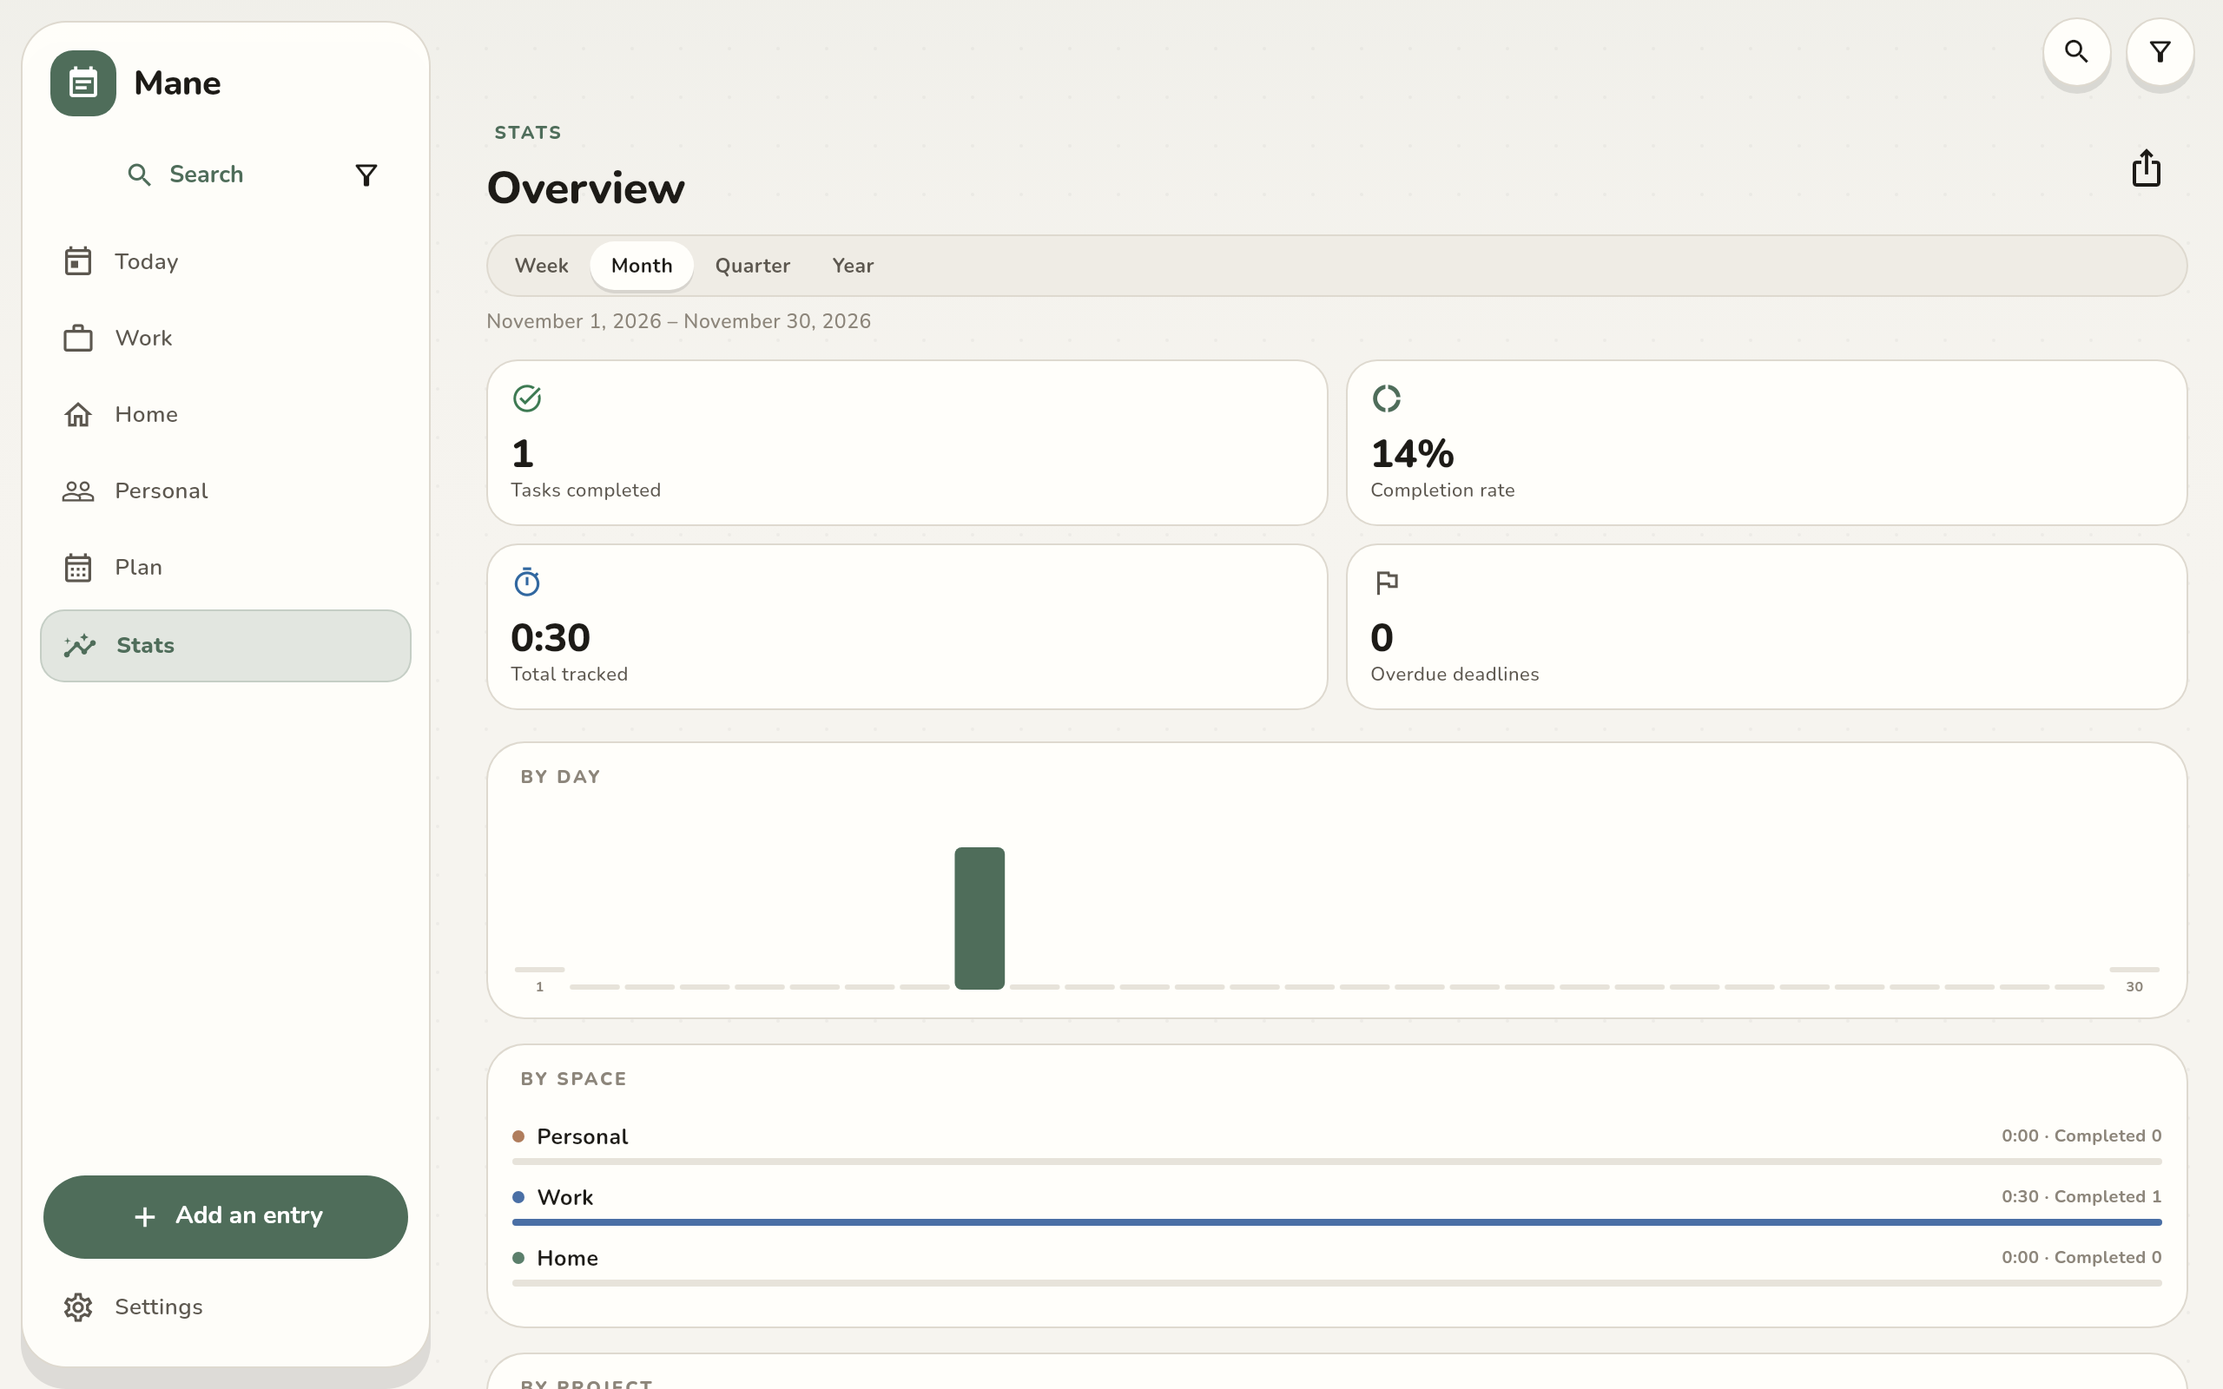
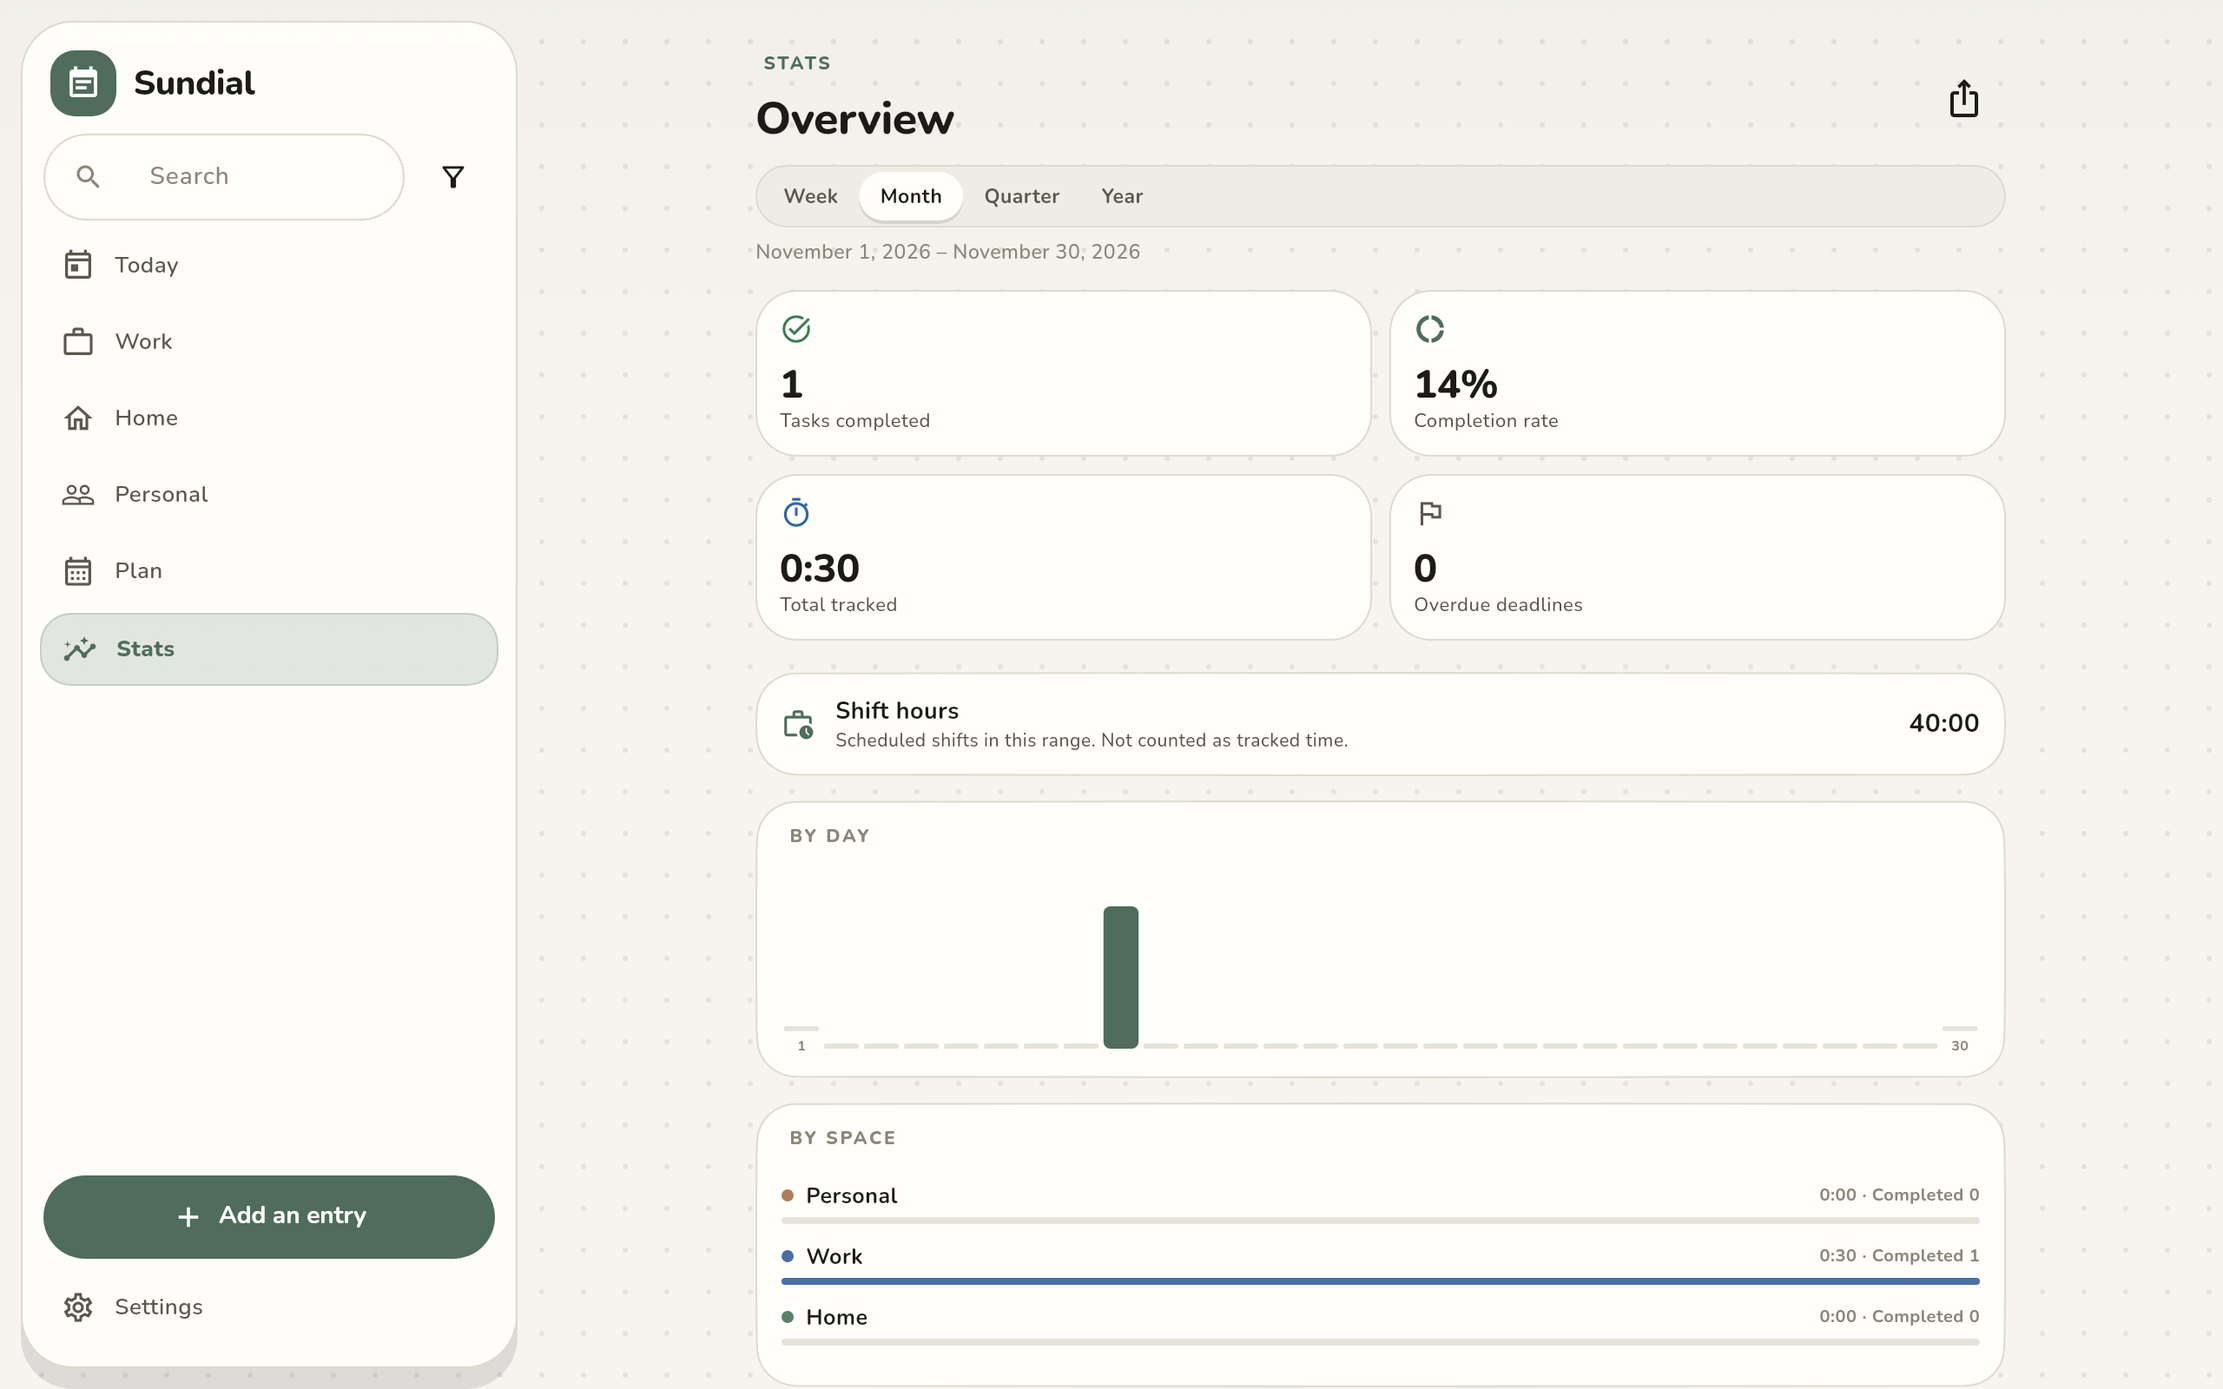
feat: centre page bodies in a reading column
Wide windows stretched cards and forms to the edge while Settings
already kept a 760 px column. The shared pane applies that measure to
the shell tabs and pushed pages; Plan opts out because its grids are
canvases.

diff --git a/lib/app/app_shell.dart b/lib/app/app_shell.dart
@@ -7,6 +7,7 @@ import 'package:flutter_timezone/flutter_timezone.dart';
 import 'package:sundial_core/sundial_core.dart';
 
 import '../core/i18n/l10n.dart';
+import '../core/layout/sundial_layout.dart';
 import '../core/sound/sound_service.dart';
 import '../core/widgets/ui_kit.dart';
 import '../features/home_widget/home_widget_service.dart';
@@ -24,6 +25,7 @@ import '../services/reminder_planner.dart';
 import '../state/providers.dart';
 import '../state/settings_controller.dart';
 import '../theme/app_colors.dart';
+import '../theme/app_radii.dart';
 import '../theme/app_typography.dart';
 
 class AppShell extends ConsumerStatefulWidget {
@@ -277,7 +279,10 @@ class _AppShellState extends ConsumerState<AppShell>
                 Container(
                   width: 38,
                   height: 38,
-                  decoration: BoxDecoration(color: c.accent, borderRadius: BorderRadius.circular(13)),
+                  decoration: BoxDecoration(
+                    color: c.accent,
+                    borderRadius: BorderRadius.circular(SundialRadii.sm),
+                  ),
                   child: Icon(Icons.event_note, size: 21, color: c.onAccent),
                 ),
                 const SizedBox(width: 10),
@@ -295,7 +300,10 @@ class _AppShellState extends ConsumerState<AppShell>
                       ? null
                       : Container(
                           padding: const EdgeInsets.symmetric(horizontal: 5, vertical: 1),
-                          decoration: BoxDecoration(color: c.accent, borderRadius: BorderRadius.circular(8)),
+                          decoration: BoxDecoration(
+                            color: c.accent,
+                            borderRadius: BorderRadius.circular(SundialRadii.xs),
+                          ),
                           child: Text('$filterCount', style: SundialType.label(9, color: c.onAccent)),
                         ),
                 ),
@@ -311,12 +319,13 @@ class _AppShellState extends ConsumerState<AppShell>
             child: IndexedStack(
               index: _index,
               children: const [
-                TodayScreen(),
-                SpaceOverviewPage(spaceId: 'work'),
-                SpaceOverviewPage(spaceId: 'home'),
-                SpaceOverviewPage(spaceId: 'personal'),
+                SundialContentPane(child: TodayScreen()),
+                SundialContentPane(child: SpaceOverviewPage(spaceId: 'work')),
+                SundialContentPane(child: SpaceOverviewPage(spaceId: 'home')),
+                SundialContentPane(child: SpaceOverviewPage(spaceId: 'personal')),
+                // Plan is a canvas: the month and week grids use the full width.
                 PlanPage(),
-                StatsPage(),
+                SundialContentPane(child: StatsPage()),
               ],
             ),
           ),
@@ -423,11 +432,11 @@ class _SideRail extends StatelessWidget {
     final c = context.mc;
     final l10n = context.l10n;
     return Container(
-      width: 236,
+      width: kSidebarWidth,
       margin: const EdgeInsets.fromLTRB(12, 12, 12, 12),
       decoration: BoxDecoration(
         color: c.navBg,
-        borderRadius: BorderRadius.circular(26),
+        borderRadius: BorderRadius.circular(SundialRadii.xl),
         border: Border.all(color: c.border),
         boxShadow: [BoxShadow(color: c.shadow, blurRadius: 26, offset: const Offset(0, 12))],
       ),
@@ -440,7 +449,10 @@ class _SideRail extends StatelessWidget {
                 Container(
                   width: 38,
                   height: 38,
-                  decoration: BoxDecoration(color: c.accent, borderRadius: BorderRadius.circular(13)),
+                  decoration: BoxDecoration(
+                    color: c.accent,
+                    borderRadius: BorderRadius.circular(SundialRadii.sm),
+                  ),
                   child: Icon(Icons.event_note, size: 21, color: c.onAccent),
                 ),
                 const SizedBox(width: 10),
@@ -540,7 +552,7 @@ class _RailItem extends StatelessWidget {
           padding: const EdgeInsets.symmetric(horizontal: 12, vertical: 10),
           decoration: BoxDecoration(
             color: selected ? c.accentSoft : Colors.transparent,
-            borderRadius: BorderRadius.circular(14),
+            borderRadius: BorderRadius.circular(SundialRadii.md),
             border: selected ? Border.all(color: c.accent.withValues(alpha: 0.2)) : null,
           ),
           child: Row(

diff --git a/lib/features/settings/pages/settings_page.dart b/lib/features/settings/pages/settings_page.dart
@@ -2,11 +2,13 @@ import 'package:flutter/material.dart';
 import 'package:flutter_riverpod/flutter_riverpod.dart';
 
 import '../../../core/i18n/l10n.dart';
+import '../../../core/layout/sundial_layout.dart';
 import '../../../core/widgets/ui_kit.dart';
 import '../../../models/app_settings.dart';
 import '../../../state/providers.dart';
 import '../../../state/settings_controller.dart';
 import '../../../theme/app_colors.dart';
+import '../../../theme/app_radii.dart';
 import '../../../theme/app_typography.dart';
 import '../../mcp/pages/mcp_page.dart';
 import '../../sync/pages/devices_page.dart';
@@ -16,8 +18,6 @@ import 'settings_detail_page.dart';
 
 /// Mirrors the shell breakpoint in `lib/app/app_shell.dart`.
 const _desktopBreakpoint = 900.0;
-const _sidebarWidth = 286.0;
-const _paneMaxWidth = 760.0;
 
 class SettingsPage extends ConsumerStatefulWidget {
   const SettingsPage({super.key});
@@ -164,20 +164,13 @@ class _SettingsPageState extends ConsumerState<SettingsPage> {
                 ),
                 const SizedBox(width: 22),
                 Expanded(
-                  child: Align(
-                    alignment: Alignment.topCenter,
-                    child: ConstrainedBox(
-                      constraints: const BoxConstraints(maxWidth: _paneMaxWidth),
-                      child: SizedBox(
-                        width: double.infinity,
-                        child: Column(
-                          crossAxisAlignment: CrossAxisAlignment.stretch,
-                          children: [
-                            _paneHeader(context, l10n),
-                            Expanded(child: _paneBody(context, l10n, settings, pairedCount)),
-                          ],
-                        ),
-                      ),
+                  child: SundialContentPane(
+                    child: Column(
+                      crossAxisAlignment: CrossAxisAlignment.stretch,
+                      children: [
+                        _paneHeader(context, l10n),
+                        Expanded(child: _paneBody(context, l10n, settings, pairedCount)),
+                      ],
                     ),
                   ),
                 ),
@@ -557,11 +550,11 @@ class _SettingsSidebar extends StatelessWidget {
     final l10n = context.l10n;
     final c = context.mc;
     return Container(
-      width: _sidebarWidth,
+      width: kSidebarWidth,
       padding: const EdgeInsets.fromLTRB(12, 12, 12, 10),
       decoration: BoxDecoration(
         color: c.navBg,
-        borderRadius: BorderRadius.circular(24),
+        borderRadius: BorderRadius.circular(SundialRadii.lg),
         border: Border.all(color: c.border),
       ),
       child: Column(
@@ -721,7 +714,7 @@ class _SidebarRow extends StatelessWidget {
           padding: EdgeInsets.symmetric(horizontal: 10, vertical: twoLines ? 8 : 10),
           decoration: BoxDecoration(
             color: selected ? c.accentSoft : Colors.transparent,
-            borderRadius: BorderRadius.circular(12),
+            borderRadius: BorderRadius.circular(SundialRadii.sm),
             border: Border.all(color: selected ? c.accent.withValues(alpha: 0.30) : Colors.transparent),
           ),
           child: Row(

diff --git a/lib/core/widgets/sundial_page.dart b/lib/core/widgets/sundial_page.dart
@@ -4,6 +4,7 @@ import '../../theme/app_colors.dart';
 import '../../theme/app_typography.dart';
 import 'app_background.dart';
 import 'pressable.dart';
+import 'sundial_content_pane.dart';
 
 /// A pushed page with the reference header: round back button, strong title,
 /// optional subtitle and glass actions. It replaces stock AppBar scaffolds.
@@ -40,37 +41,39 @@ class SundialPage extends StatelessWidget {
       body: AppBackground(
         child: SafeArea(
           bottom: bottomBar == null,
-          child: Column(
-            children: [
-              Padding(
-                padding: const EdgeInsets.fromLTRB(16, 10, 16, 8),
-                child: SundialPageHeader(
-                  title: title,
-                  subtitle: subtitle,
-                  actions: actions,
-                  onBack: onBack ?? () => Navigator.of(context).maybePop(),
-                ),
-              ),
-              Expanded(
-                child: Stack(
-                  children: [
-                    Positioned.fill(
-                      child: Padding(padding: padding, child: child),
-                    ),
-                    if (floatingAction != null) Positioned(right: 20, bottom: 20, child: floatingAction!),
-                  ],
-                ),
-              ),
-              if (bottomBar != null)
-                Container(
-                  padding: EdgeInsets.fromLTRB(20, 10, 20, 12 + MediaQuery.paddingOf(context).bottom),
-                  decoration: BoxDecoration(
-                    color: c.surface,
-                    border: Border(top: BorderSide(color: c.border)),
+          child: SundialContentPane(
+            child: Column(
+              children: [
+                Padding(
+                  padding: const EdgeInsets.fromLTRB(16, 10, 16, 8),
+                  child: SundialPageHeader(
+                    title: title,
+                    subtitle: subtitle,
+                    actions: actions,
+                    onBack: onBack ?? () => Navigator.of(context).maybePop(),
                   ),
-                  child: bottomBar,
                 ),
-            ],
+                Expanded(
+                  child: Stack(
+                    children: [
+                      Positioned.fill(
+                        child: Padding(padding: padding, child: child),
+                      ),
+                      if (floatingAction != null) Positioned(right: 20, bottom: 20, child: floatingAction!),
+                    ],
+                  ),
+                ),
+                if (bottomBar != null)
+                  Container(
+                    padding: EdgeInsets.fromLTRB(20, 10, 20, 12 + MediaQuery.paddingOf(context).bottom),
+                    decoration: BoxDecoration(
+                      color: c.surface,
+                      border: Border(top: BorderSide(color: c.border)),
+                    ),
+                    child: bottomBar,
+                  ),
+              ],
+            ),
           ),
         ),
       ),

diff --git a/test/visual_kit_test.dart b/test/visual_kit_test.dart
@@ -1,7 +1,9 @@
 import 'package:flutter/material.dart';
 import 'package:flutter_test/flutter_test.dart';
+import 'package:sundial/core/layout/sundial_layout.dart';
 import 'package:sundial/core/widgets/ui_kit.dart';
 import 'package:sundial/theme/app_colors.dart';
+import 'package:sundial/theme/app_radii.dart';
 import 'package:sundial/theme/app_theme.dart';
 
 void main() {
@@ -16,7 +18,14 @@ void main() {
     expect(theme.appBarTheme.backgroundColor, Colors.transparent);
     expect(theme.snackBarTheme.behavior, SnackBarBehavior.floating);
     expect(theme.filledButtonTheme.style?.shape?.resolve({}), isA<StadiumBorder>());
-    expect(theme.bottomSheetTheme.shape, isA<RoundedRectangleBorder>());
+    // Sheets and cards follow the icon's continuous-corner silhouette.
+    expect(theme.bottomSheetTheme.shape, isA<RoundedSuperellipseBorder>());
+    expect(theme.cardTheme.shape, isA<RoundedSuperellipseBorder>());
+    expect(theme.dialogTheme.shape, isA<RoundedSuperellipseBorder>());
+    expect(
+      (theme.cardTheme.shape! as RoundedSuperellipseBorder).borderRadius,
+      BorderRadius.circular(SundialRadii.lg),
+    );
     expect(theme.cardTheme.color, SundialColors.light.surface);
   });
 
@@ -59,6 +68,38 @@ void main() {
     await tester.tap(find.bySemanticsLabel('Quiet hours'));
     await tester.pumpAndSettle();
     expect(toggled, isTrue);
+  });
+
+  testWidgets('page bodies centre in the reading column on wide windows', (tester) async {
+    tester.view.physicalSize = const Size(1600, 900);
+    tester.view.devicePixelRatio = 1;
+    addTearDown(tester.view.reset);
+
+    await tester.pumpWidget(
+      MaterialApp(
+        theme: SundialTheme.light,
+        home: const Scaffold(
+          body: SundialContentPane(child: SizedBox.expand(key: Key('pane-body'))),
+        ),
+      ),
+    );
+
+    final box = tester.getRect(find.byKey(const Key('pane-body')));
+    expect(box.width, kContentMaxWidth);
+    expect(box.center.dx, 800);
+    expect(box.height, 900);
+
+    tester.view.physicalSize = const Size(500, 800);
+    await tester.pumpWidget(
+      MaterialApp(
+        theme: SundialTheme.light,
+        home: const Scaffold(
+          body: SundialContentPane(child: SizedBox.expand(key: Key('pane-body'))),
+        ),
+      ),
+    );
+
+    expect(tester.getSize(find.byKey(const Key('pane-body'))).width, 500);
   });
 
   testWidgets('the floating nav reports the selected destination', (tester) async {

diff --git a/lib/core/widgets/sundial_content_pane.dart b/lib/core/widgets/sundial_content_pane.dart
@@ -1,0 +1,25 @@
+import 'package:flutter/material.dart';
+
+import '../layout/sundial_layout.dart';
+
+/// Centres a page body in the shared reading column.
+///
+/// Wide windows keep the same calm gutters as the settings master-detail
+/// layout instead of stretching cards and rows to the window edge. Canvas
+/// screens such as the Plan grid opt out and stay full-bleed.
+class SundialContentPane extends StatelessWidget {
+  const SundialContentPane({super.key, required this.child});
+
+  final Widget child;
+
+  @override
+  Widget build(BuildContext context) {
+    return Align(
+      alignment: Alignment.topCenter,
+      child: ConstrainedBox(
+        constraints: const BoxConstraints(maxWidth: kContentMaxWidth),
+        child: SizedBox(width: double.infinity, child: child),
+      ),
+    );
+  }
+}

diff --git a/lib/core/layout/sundial_layout.dart b/lib/core/layout/sundial_layout.dart
@@ -1,0 +1,15 @@
+// Shared desktop layout metrics.
+
+/// Width of every desktop sidebar.
+///
+/// The main navigation rail, the settings sidebar and the plan calendar
+/// column share this width so switching between screens never shifts the
+/// content edge.
+const double kSidebarWidth = 286;
+
+/// Reading width for page bodies on wide windows.
+///
+/// Settings, lists and forms centre their content in this column so the
+/// background stays visible on both sides, matching the settings pane. Canvas
+/// screens such as the Plan grid intentionally fill the available width.
+const double kContentMaxWidth = 760;

diff --git a/lib/core/widgets/ui_kit.dart b/lib/core/widgets/ui_kit.dart
@@ -1,6 +1,7 @@
 export 'app_background.dart';
 export 'app_empty_state.dart';
 export 'app_sheet.dart';
+export 'sundial_content_pane.dart';
 export 'sundial_date_field.dart';
 export 'sundial_field_clear.dart';
 export 'sundial_nav_bar.dart';
